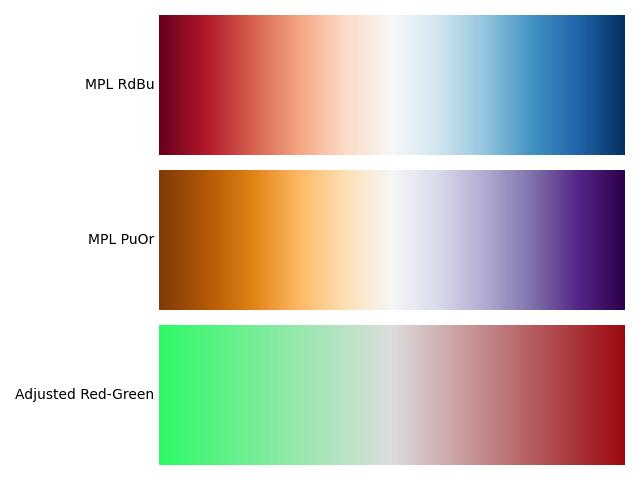
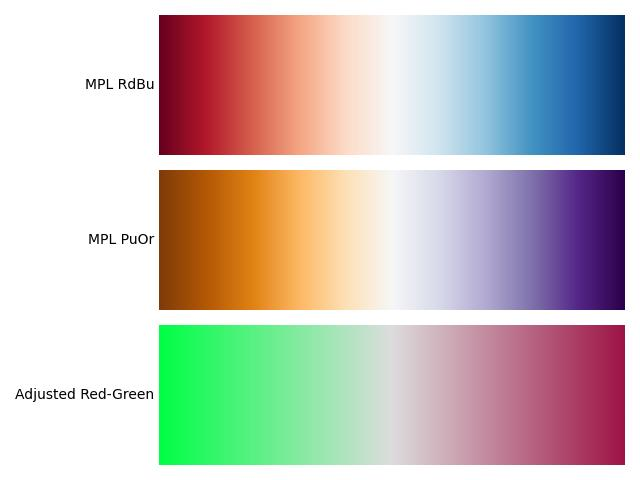
Updated gradients and added simulation to README

Changed region(s): [[0.75, 0.6562, 1.0, 0.9688], [0.25, 0.6562, 0.4375, 0.9688]]

diff --git a/favorite_cmaps.py b/favorite_cmaps.py
@@ -38,7 +38,7 @@ green_purple_ramp = LinearSegmentedColormap.from_list("moreland_green_purple", [
 #Note that this will be problematic as is for individuals with red-green colorblindness 
 red_green_ramp = LinearSegmentedColormap.from_list("moreland_red-green", [(0.085, 0.532, 0.201), (0.865, 0.865, 0.865), (0.758, 0.214, 0.233)])
 #However, by changing the hue and value of the green and red, we can actually make a color ramp that should be readable for individuals with issues distinguishing these colors
-red_green_ramp_adj = LinearSegmentedColormap.from_list("adjusted_red-green", ['#2EF966', (0.865, 0.865, 0.865), '#9C090F'])
+red_green_ramp_adj = LinearSegmentedColormap.from_list("adjusted_red-green", ['#00FF46', (0.865, 0.865, 0.865), '#860835'])
 #More neutral colors in the ramp may get a little close for individuals with deuteranopia
 #It is also important to consider that even if all colors are distinguishable, if you are using red to indicate "bad" or "low" values, this ramp will still be hard to interpret at a glance
 

diff --git a/preview_cmaps.py b/preview_cmaps.py
@@ -59,7 +59,7 @@ plt.close()
 
 #My Gradients
 fig, ax = plt.subplots(len(my_cat), 1)
-for i, l, a in zip(my_cat, ['Historical Glass 1', 'Historic Glass 2'], ax.reshape(-1)):
+for i, l, a in zip(my_cat, ['Historical Glass 1', 'Historical Glass 2'], ax.reshape(-1)):
     show_cmap(l, i, a)
 plt.tight_layout()
 plt.savefig('figures/MyCategorical.jpg')
@@ -84,6 +84,6 @@ ax[1].set_xlabel('')
 ax[1].set_ylabel('Bill Length (mm)', fontsize = 12)
 fig.supxlabel('Flipper Length (mm)', fontsize = 12)
 plt.tight_layout()
-# plt.show()
 plt.savefig("figures/Scatter_example.jpg")
+plt.show()
 plt.close()

diff --git a/README.md b/README.md
@@ -69,11 +69,15 @@ However, the green-purple map is similar to the ```PrGn``` and ```PiYG``` option
 
 <img src="figures/Gradient2.jpg" alt="Scatterplot example using a colormap" width="500">
 
-I did create the ```red_green_ramp_adj```. This mimics Moreland's red-green color ramp but with the values adjusted to be higher contrast. Red-green colorblindness is one of the common forms of colorblindness, and data visualization/mapping resources typically suggest avoiding it. However, adjusting the values of the red or green can still make the colors distinguishable from each other.
+I did create the ```red_green_ramp_adj```. This mimics Moreland's red-green color ramp but with the values adjusted. Red-green colorblindness is one of the common forms of colorblindness, and data visualization/mapping resources typically suggest avoiding it. However, using a very dark red and a very light green (i.e., changing the values) increases the contrast between the colors and makes them more distinguishable. Using a more pink/magenta-toned red can also help:
+
+<img src="figures/Red-green-simulation.png" alt="Dark red to light green color map simulation" width="350">
+
+This simulation from the [Coloring with Colorblindness](https://davidmathlogic.com/colorblind) website shows the adjusted red-green color map (left) and how it might appear for individuals with common forms of colorblindness (L to R: protanopia and deuteranopia, forms of red-green colorblindness, and tritanopia, which is blue-yellow colorblindness). However, if you are using red and green as a shorthand for low/high or bad/good then that meaning will not be as quickly conveyed for someone who cannot see these colors in the same way (even if the colors are distinguishable from each other).
 
 #### Categorical
 
-I found these color-blind friendly categorical color schemes, ```ibmcolorblind``` ([source](https://web.archive.org/web/20180503023309/https://www.ibm.com/design/language/resources/color-library)), ```okabe_ito``` ([source](https://jfly.uni-koeln.de/color/)), and ```tol_muted``` ([source](https://sronpersonalpages.nl/~pault/)) on the [Coloring with Colorblindness](https://davidmathlogic.com/colorblind) website originally.
+I found these color-blind friendly categorical color schemes, ```ibmcolorblind``` ([source](https://web.archive.org/web/20180503023309/https://www.ibm.com/design/language/resources/color-library)), ```okabe_ito``` ([source](https://jfly.uni-koeln.de/color/)), and ```tol_muted``` ([source](https://sronpersonalpages.nl/~pault/)) on [Coloring with Colorblindness](https://davidmathlogic.com/colorblind) originally.
 
 <img src="figures/Categorical.jpg" alt="Scatterplot example using a colormap" width="500">
 
